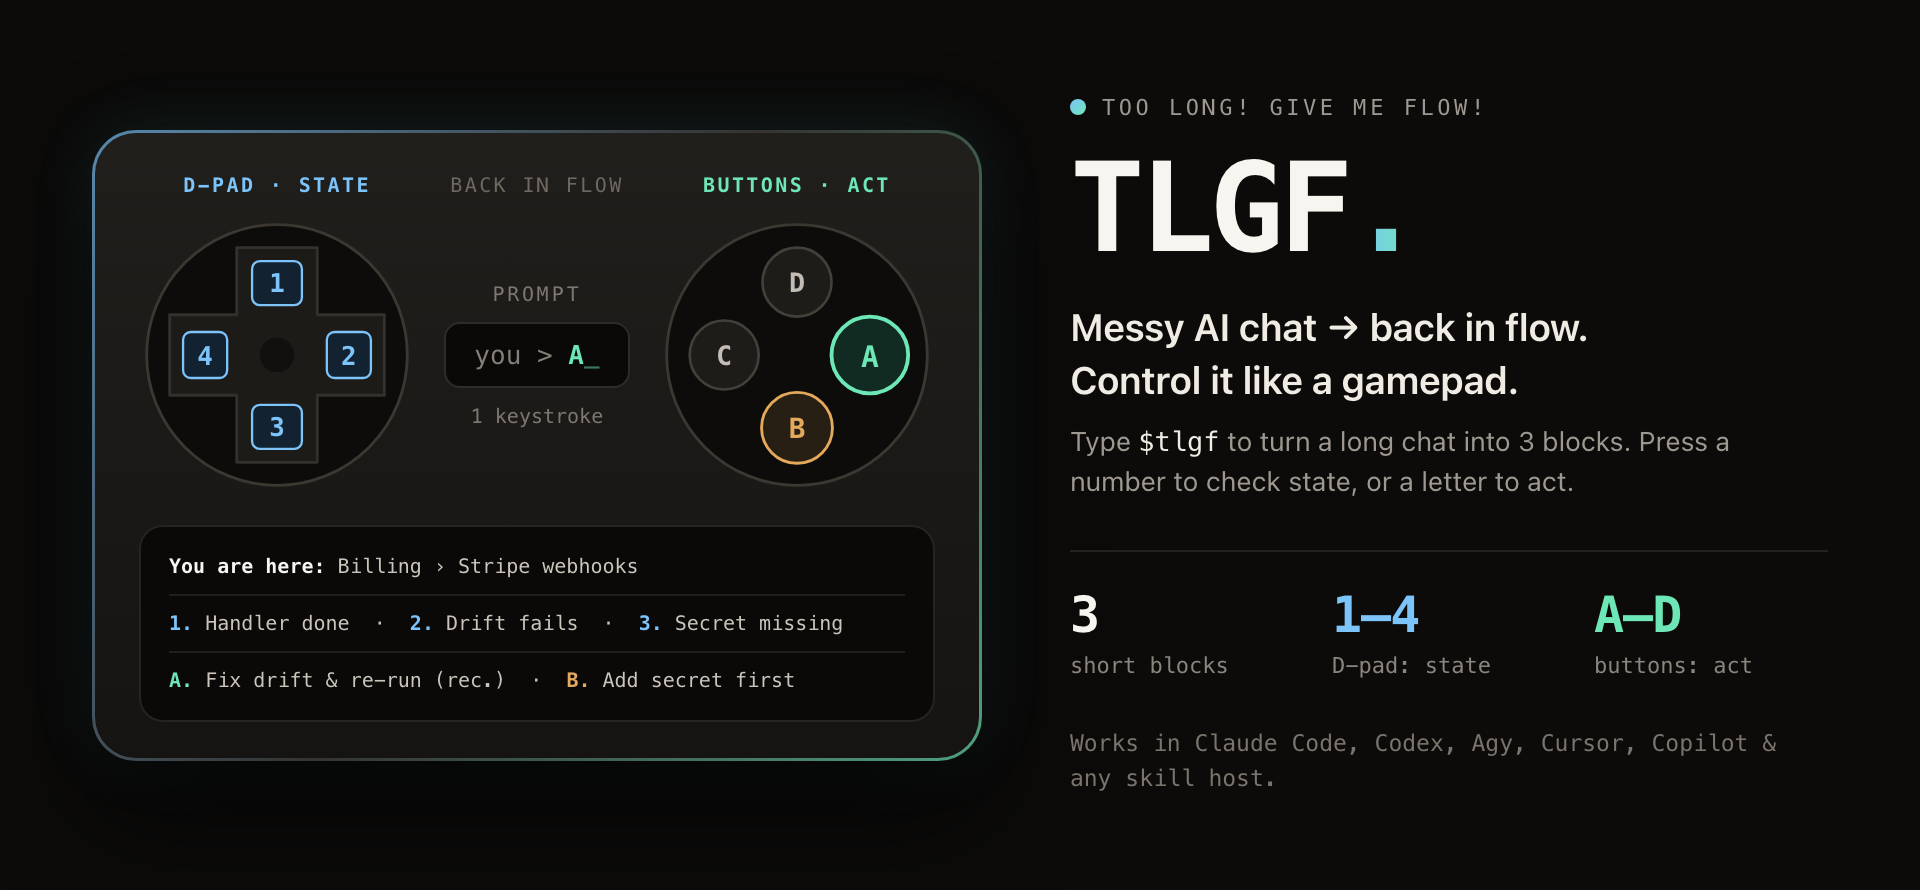
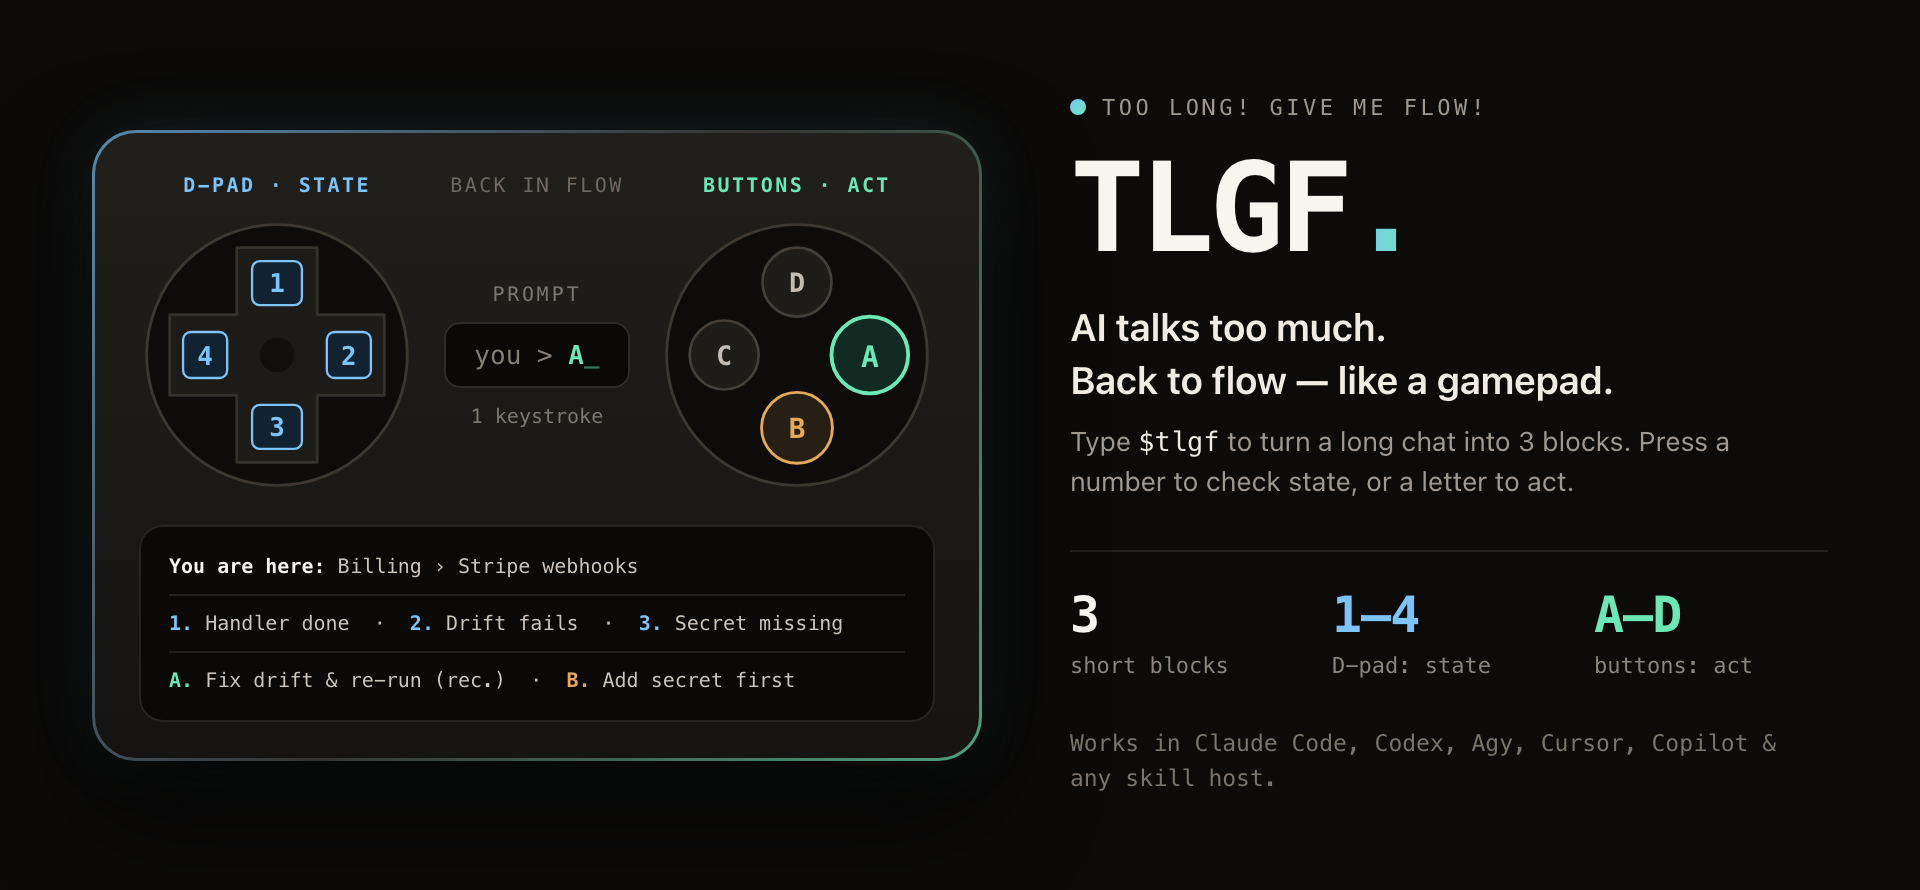
Update hero tagline to 'AI talks too much. Back to flow — like a gamepad.'

Changed region(s): [[0.5625, 0.3337, 0.8438, 0.4551]]

diff --git a/assets/render.py b/assets/render.py
@@ -209,7 +209,7 @@ GAMEPAD_HTML = f"""<!doctype html>
   <div class="right-panel">
     <div class="pill mono"><span class="dot"></span> TOO LONG! GIVE ME FLOW!</div>
     <div class="hero-name mono">TLGF<span>.</span></div>
-    <div class="tagline">Messy AI chat &rarr; back in flow.<br>Control it like a gamepad.</div>
+    <div class="tagline">AI talks too much.<br>Back to flow &mdash; like a gamepad.</div>
     <div class="subtag">Type <span class="mono" style="color:#f0ece4;">$tlgf</span> to turn a long chat into 3 blocks. Press a number to check state, or a letter to act.</div>
 
     <div class="stats mono">

diff --git a/README.md b/README.md
@@ -11,7 +11,7 @@
 </p>
 
 <p align="center">
-  <img src="assets/gamepad.png" width="880" alt="TLGF: Messy AI chat to back in flow. Control it like a gamepad. Type $tlgf to turn a long chat into 3 blocks. Press 1-4 to check state, or A-D to act.">
+  <img src="assets/gamepad.png" width="880" alt="TLGF: AI talks too much. Back to flow — like a gamepad. Type $tlgf to turn a long chat into 3 blocks. Press 1-4 to check state, or A-D to act.">
 </p>
 
 <p align="center">
